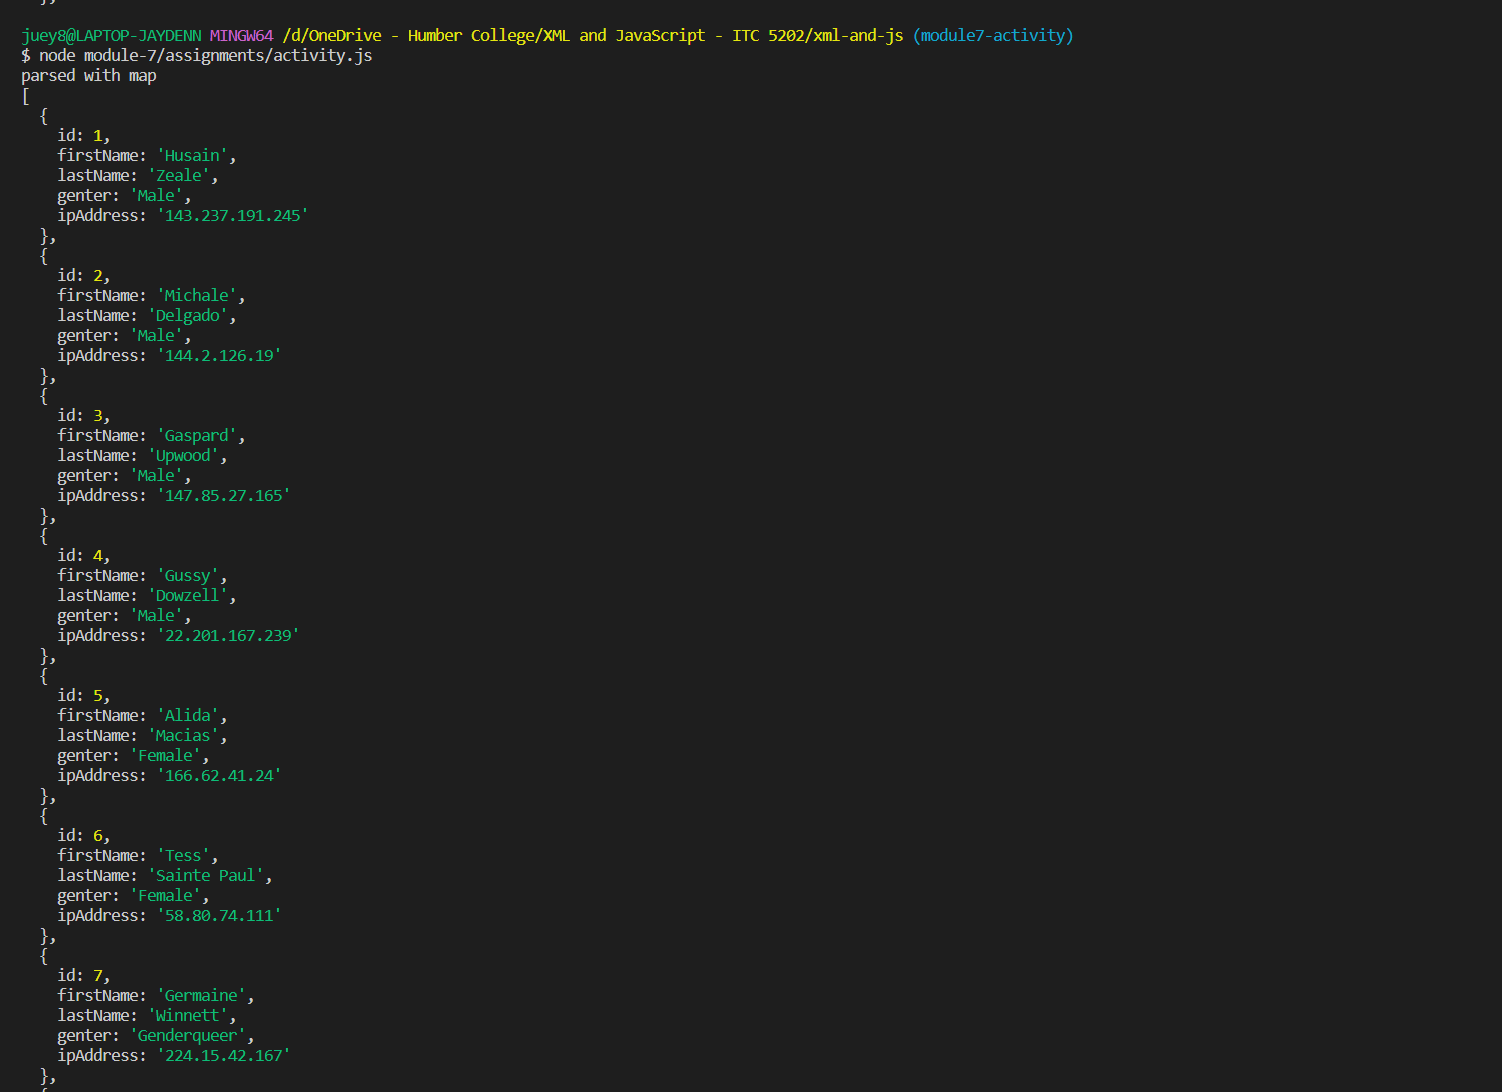
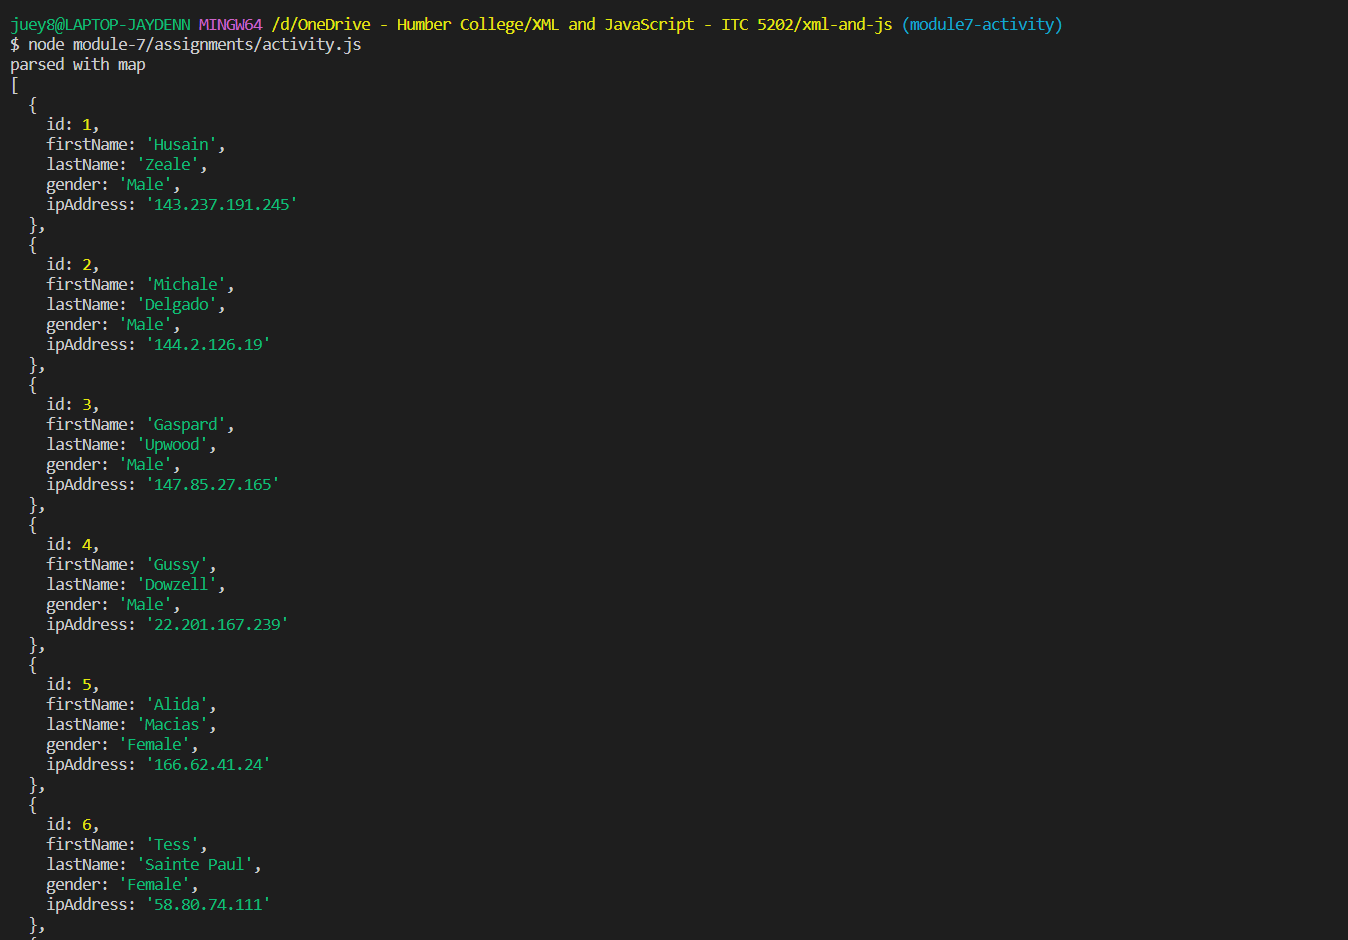
fix typo

Changed region(s): [[0.0, 0.1234, 0.2181, 0.9872], [0.0, 0.0, 0.7789, 0.1234], [0.0, 0.9872, 0.0312, 1.0]]

diff --git a/module-7/assignments/activity.js b/module-7/assignments/activity.js
@@ -87,7 +87,7 @@ const parsed = data.map(student => {
         id: student.id,
         firstName: student.first_name,
         lastName: student.last_name,
-        genter: student.gender,
+        gender: student.gender,
         ipAddress: student.ip_address
     };
 });
